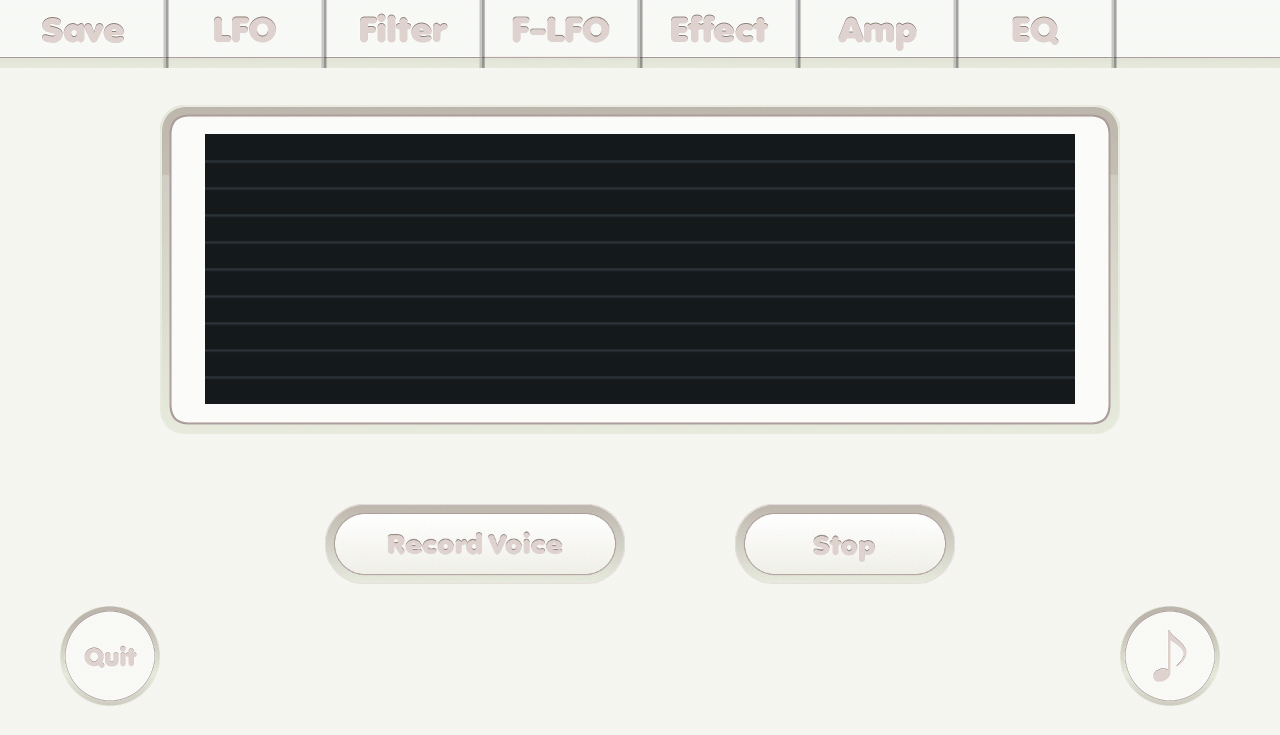
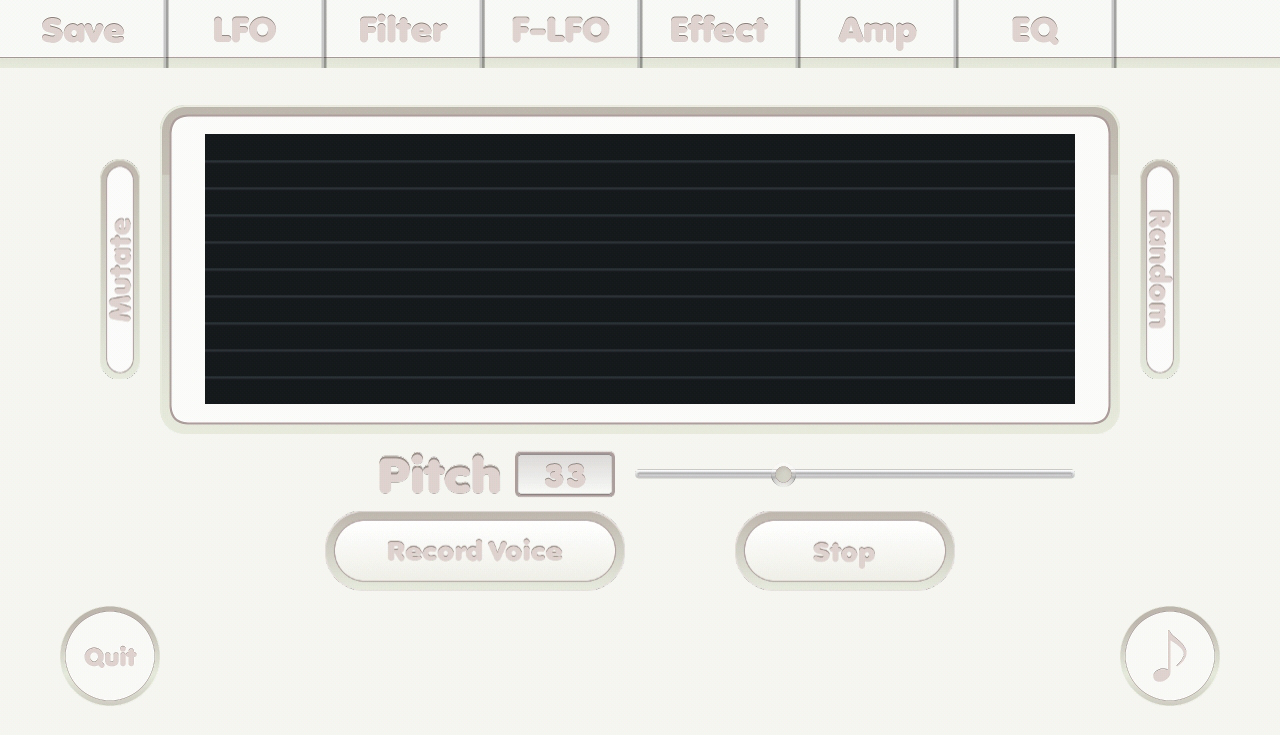
updated: version 2.0.0

diff --git a/gameSoundFXVoice/top.html b/gameSoundFXVoice/top.html
@@ -10,7 +10,9 @@ tags : [Game Sound FX Voice]
 <img src="./images/top.jpg" alt="Top screen"><br><hr><br>
 <ul class="posts">
     <li>Black screen: to show spectrum.</li>
+    <li>Pitch control slider: shift pitch.</li>
 	<li>Record Voice button: start recording voice.</li>
 	<li>Stop button: stop recording voice.</li>
+    <li>Check boxes: if it was checked its related number is affected by mutate feature.</li>
 </ul>
 <br><hr><br>

diff --git a/gameSoundFXVoice/index.html b/gameSoundFXVoice/index.html
@@ -10,7 +10,7 @@ tags : [Game Sound FX Voice]
 
 <p>
 <span>Lite version</span>&nbsp;&nbsp;&nbsp;
-<a href="https://play.google.com/store/apps/details?id=gameSoundFX.android">
+<a href="https://play.google.com/store/apps/details?id=ishibashijun.gameSoundFXVoiceLite.android">
 	<img alt="Get it on Google Play" src="https://developer.android.com/images/brand/en_generic_rgb_wo_45.png" />
 </a>
 <span>&nbsp;&nbsp;|&nbsp;&nbsp;</span>

diff --git a/gameSoundFXVoice/lfo.html b/gameSoundFXVoice/lfo.html
@@ -21,5 +21,6 @@ tags : [Game Sound FX Voice]
 	<li>Frequency knob: frequency. Turn this knob will turn the LFO on.</li>
 	<li>Depth knob: depth. Turn this knob will turn the LFO on.</li>
 	<li>Q knob: q. Turn this knob will turn the LFO on.</li>
+	<li>Check boxes: if it was checked its related number is affected by mutate feature.</li>
 </ul>
 <br><hr><br>

diff --git a/gameSoundFXVoice/effect.2.html b/gameSoundFXVoice/effect.2.html
@@ -14,6 +14,7 @@ tags : [Game Sound FX Voice]
 	<li>Threshold knob: threshold.</li>
 	<li>Attack knob: attack time in millisecond.</li>
 	<li>Release knob: release time in millisecond.</li>
+    <li>Check boxes: if it was checked its related number is affected by mutate feature.</li>
 	<li>Swipe horizontally to go to another page.</li>
 </ul>
 <br><hr><br>

diff --git a/gameSoundFXVoice/eq.html b/gameSoundFXVoice/eq.html
@@ -10,5 +10,6 @@ tags : [Game Sound FX Voice]
 <img src="./images/eq.jpg" alt="EQ screen"><br><hr><br>
 <ul class="posts">
 	<li>EQ sliders: lower Hz as goes to the left and high Hz as goes to the right.</li>
+    <li>Check boxes: if it was checked its related number is affected by mutate feature.</li>
 </ul>
 <br><hr><br>

diff --git a/gameSoundFXVoice/effect.0.html b/gameSoundFXVoice/effect.0.html
@@ -14,6 +14,7 @@ tags : [Game Sound FX Voice]
 	<li>Frequency knob: frequency.</li>
 	<li>Depth knob: depth.</li>
 	<li>Feedback knob: feedback.</li>
+    <li>Check boxes: if it was checked its related number is affected by mutate feature.</li>
 	<li>Swipe horizontally to go to another page.</li>
 </ul>
 <br><hr><br>

diff --git a/gameSoundFXVoice/effect.1.html b/gameSoundFXVoice/effect.1.html
@@ -17,6 +17,7 @@ tags : [Game Sound FX Voice]
 	<li>Room size knob: room size.</li>
 	<li>Dry knob: dry level.</li>
 	<li>Wet knob: wet level.</li>
+    <li>Check boxes: if it was checked its related number is affected by mutate feature.</li>
 	<li>Swipe horizontally to go to other pages.</li>
 </ul>
 <br><hr><br>

diff --git a/gameSoundFXVoice/filter.html b/gameSoundFXVoice/filter.html
@@ -13,5 +13,6 @@ tags : [Game Sound FX Voice]
 	<li>Cutoff knob. cutoff frequency.</li>
 	<li>Center knob. center frequency.</li>
 	<li>Q knob: q</li>
+    <li>Check boxes: if it was checked its related number is affected by mutate feature.</li>
 </ul>
 <br><hr><br>

diff --git a/gameSoundFXVoice/filterlfo.html b/gameSoundFXVoice/filterlfo.html
@@ -21,5 +21,6 @@ tags : [Game Sound FX Voice]
 	</li>
 	<li>Depth knob: depth.</li>
 	<li>Frequency knob: frequency.</li>
+	<li>Check boxes: if it was checked its related number is affected by mutate feature.</li>
 </ul>
 <br><hr><br>

diff --git a/gameSoundFXVoice/amp.html b/gameSoundFXVoice/amp.html
@@ -20,5 +20,6 @@ tags : [Game Sound FX Voice]
 		</ul>
 	</li>
 	<li>Frequency knob: frequency.</li>
+	<li>Check boxes: if it was checked its related number is affected by mutate feature.</li>
 </ul>
 <br><hr><br>
